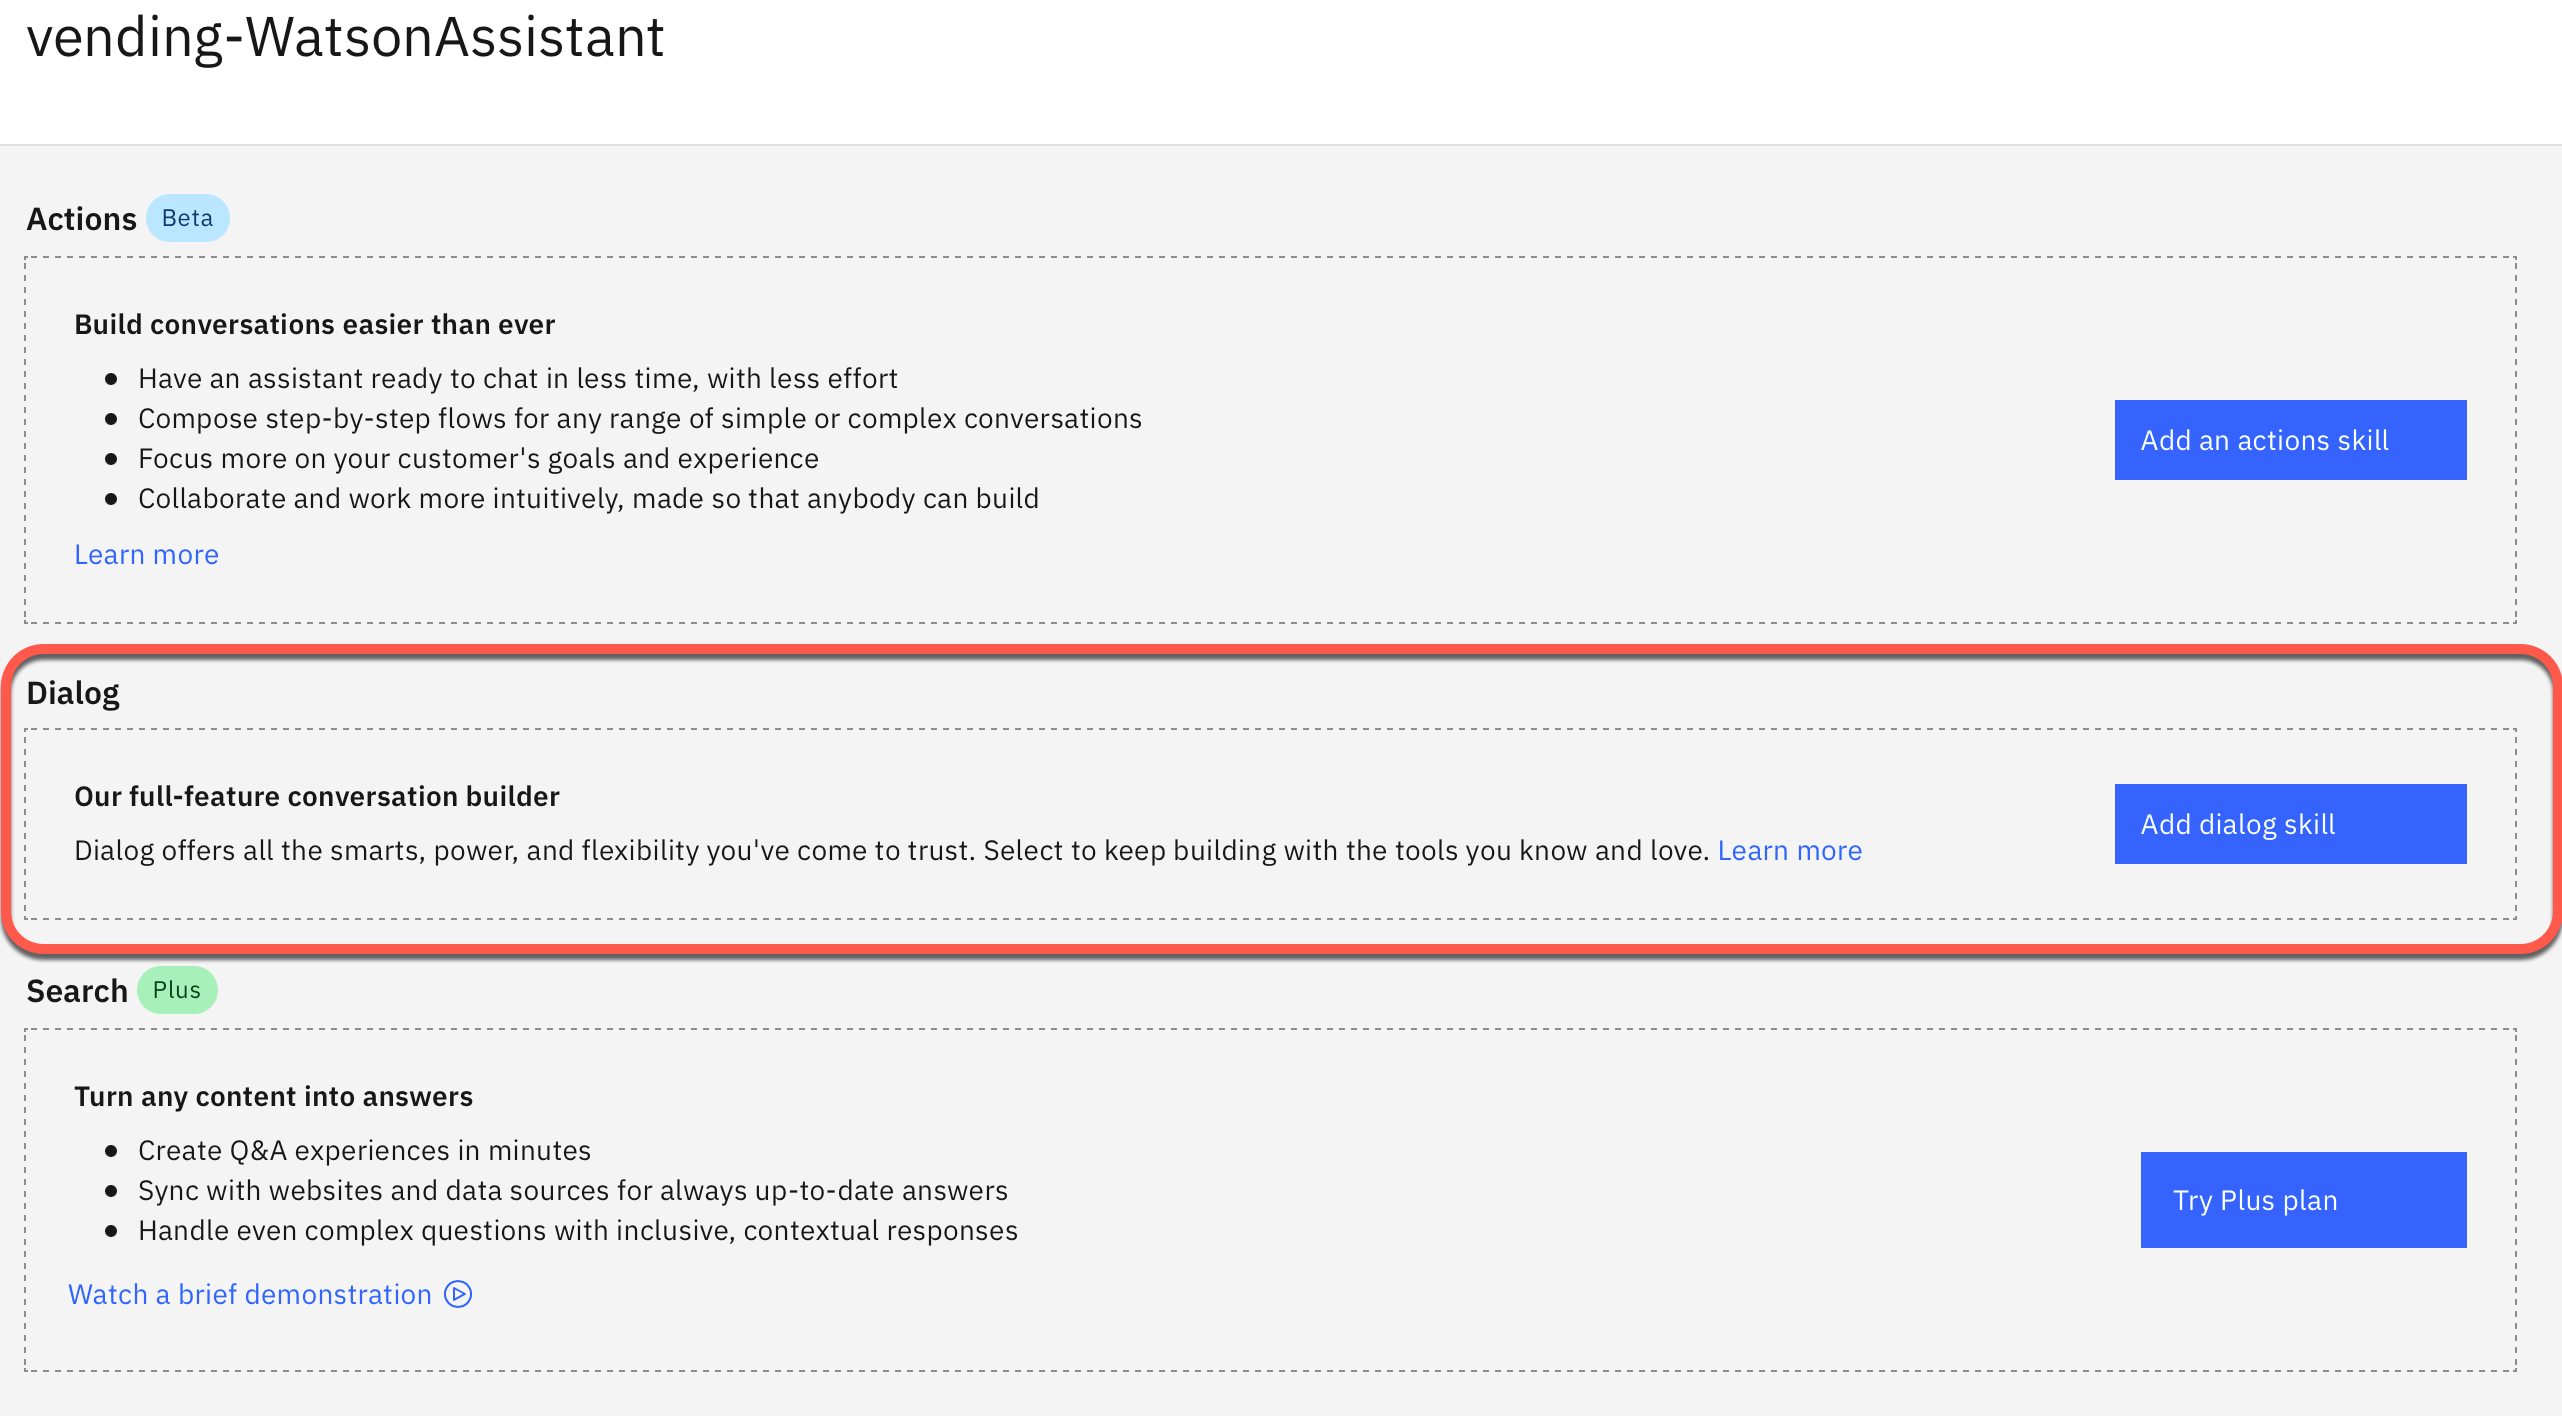
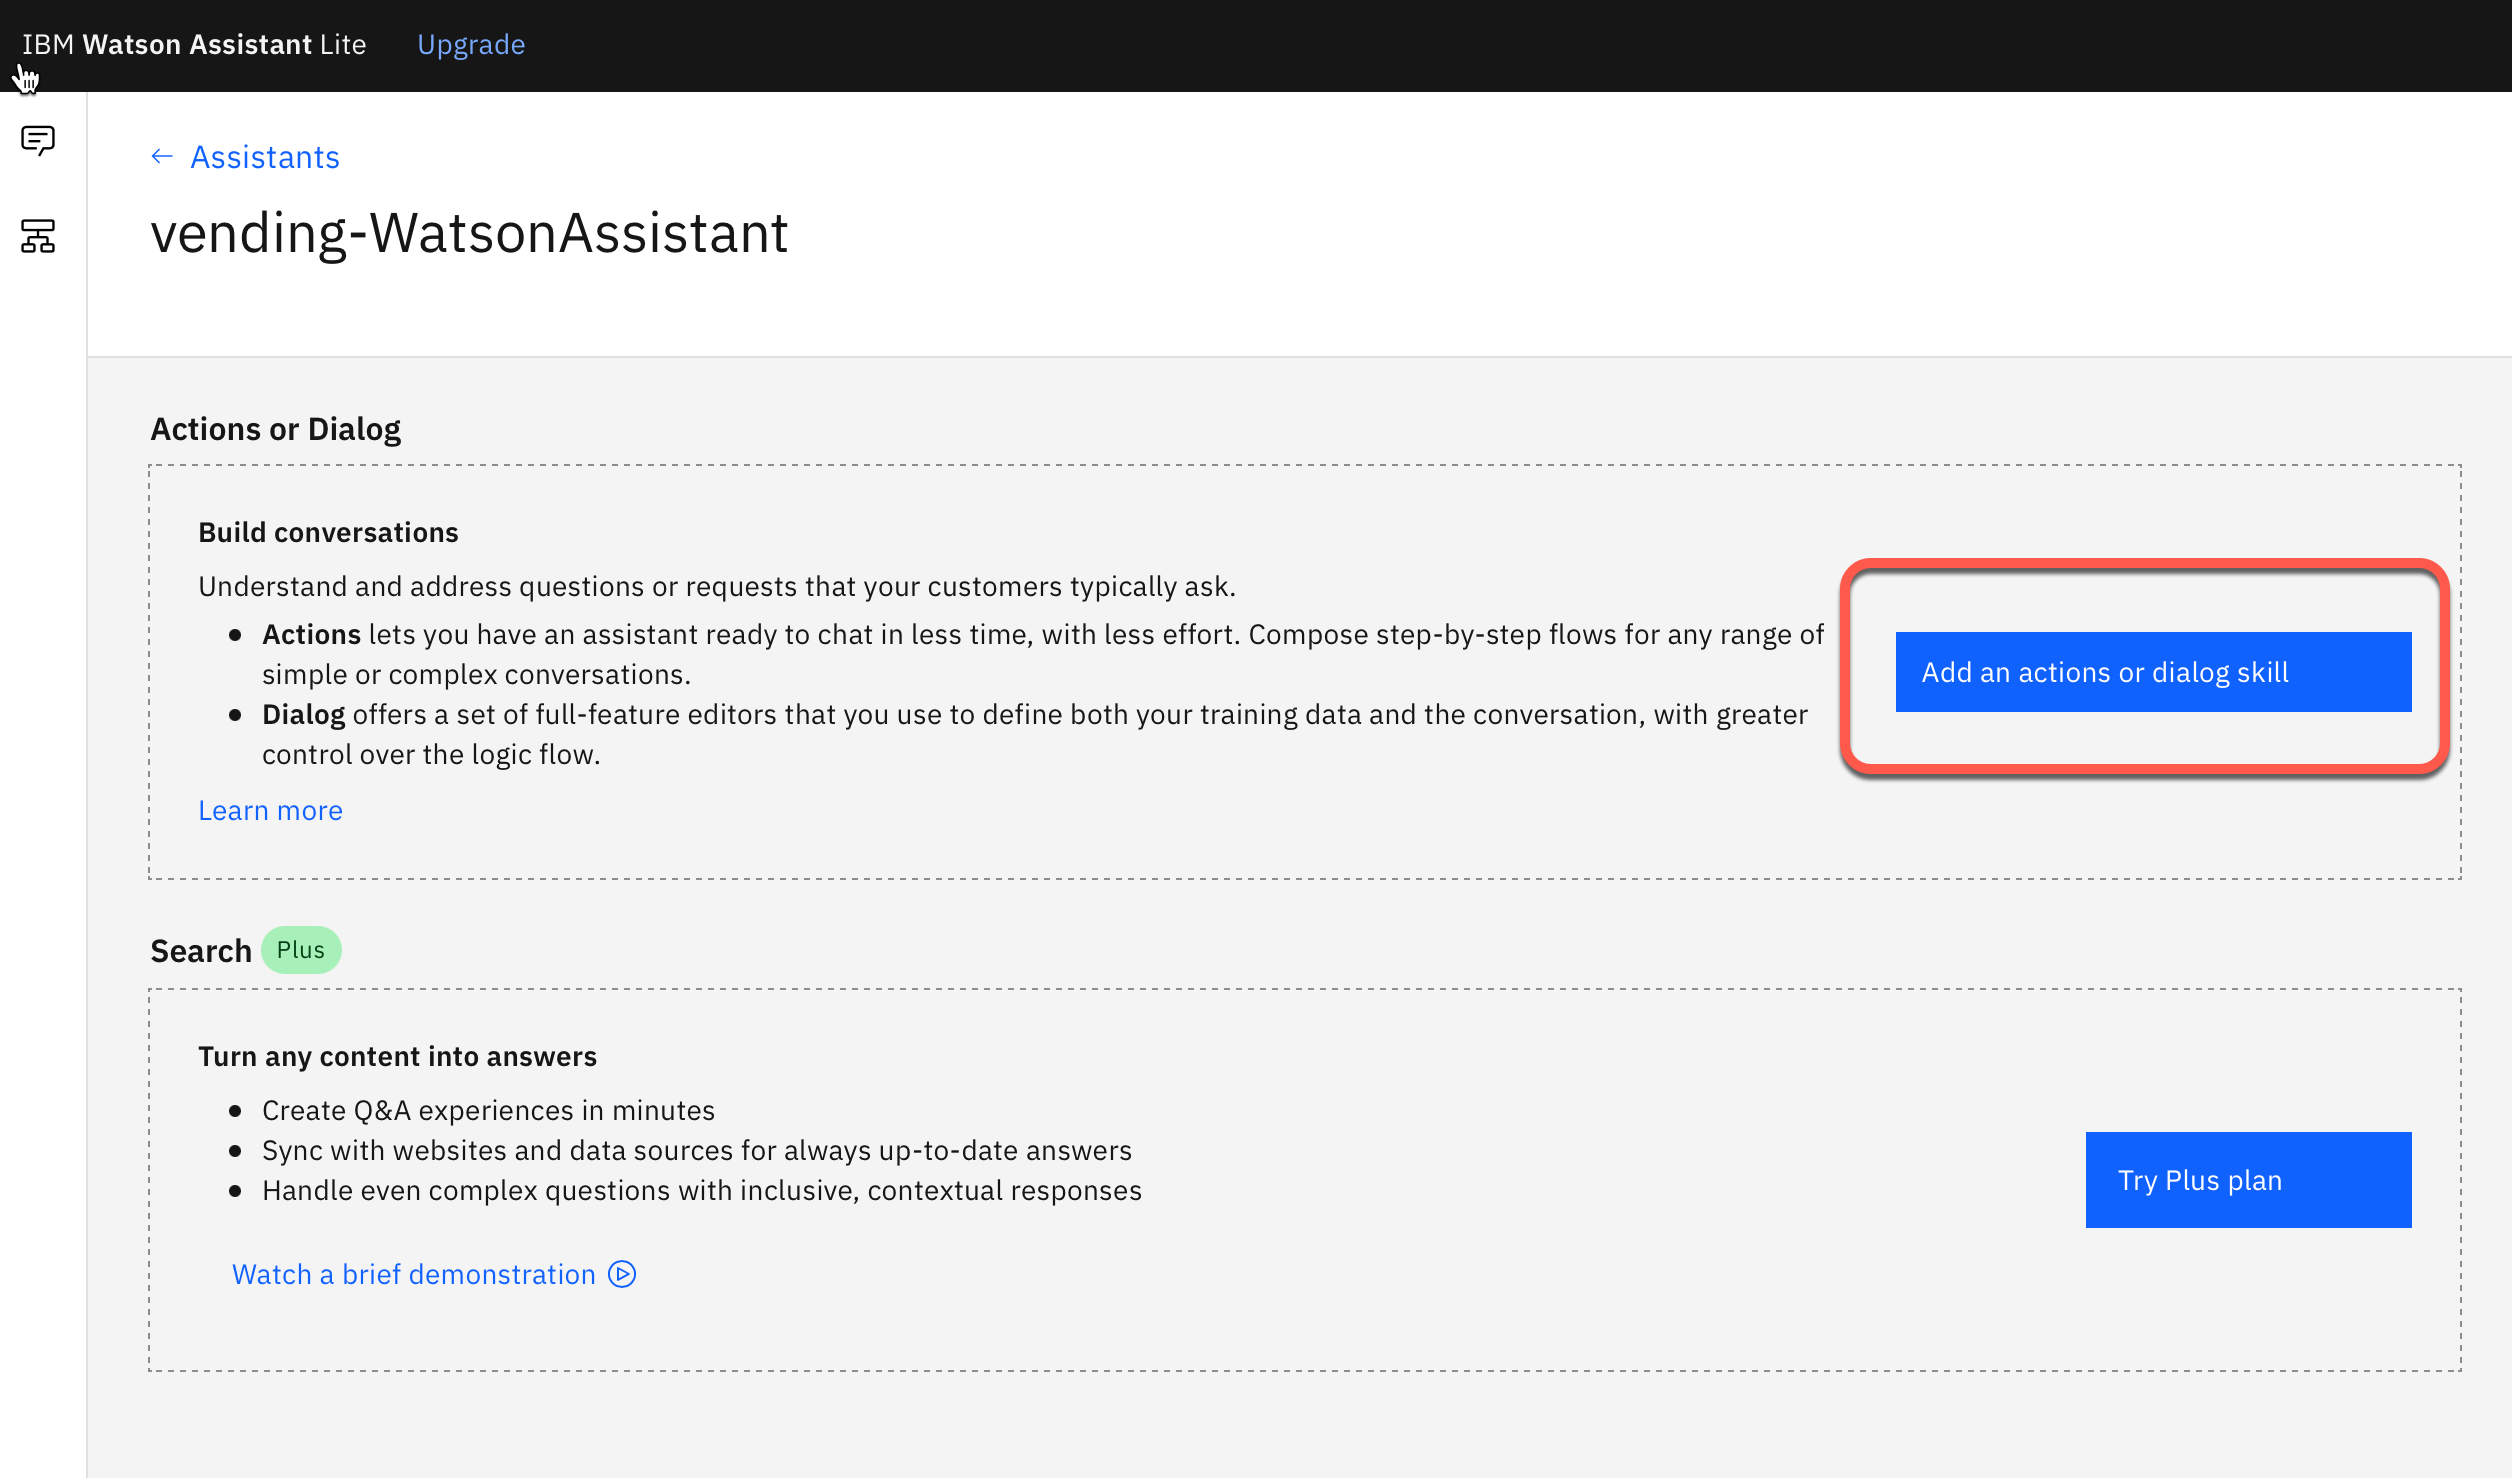
update base on ui changes

diff --git a/workshop/exercise-01/README.md b/workshop/exercise-01/README.md
@@ -12,6 +12,8 @@ Use following link [https://cloud.ibm.com/catalog/services/watson-assistant](htt
 
 ## Step 3: Change the service name to `vending-WatsonAssistant`
 
+Insert `vending-WatsonAssistant`
+
 ![assistant-2](../images/create-assistant-02.png)
 
 ## Step 4: Press `Create`

diff --git a/workshop/exercise-02/README.md b/workshop/exercise-02/README.md
@@ -1,6 +1,6 @@
 # Step 2 - Import a dialog-skill
 
-## Step 1: Select `Add dialog skill` (ensure you select **dialog skill**)
+## Step 1: Select `Action or Dialog` (ensure you select **add an action or dialog skill**)
 
 ![assistant-1](../images/dialog-skill-assistant-01.png)
 
